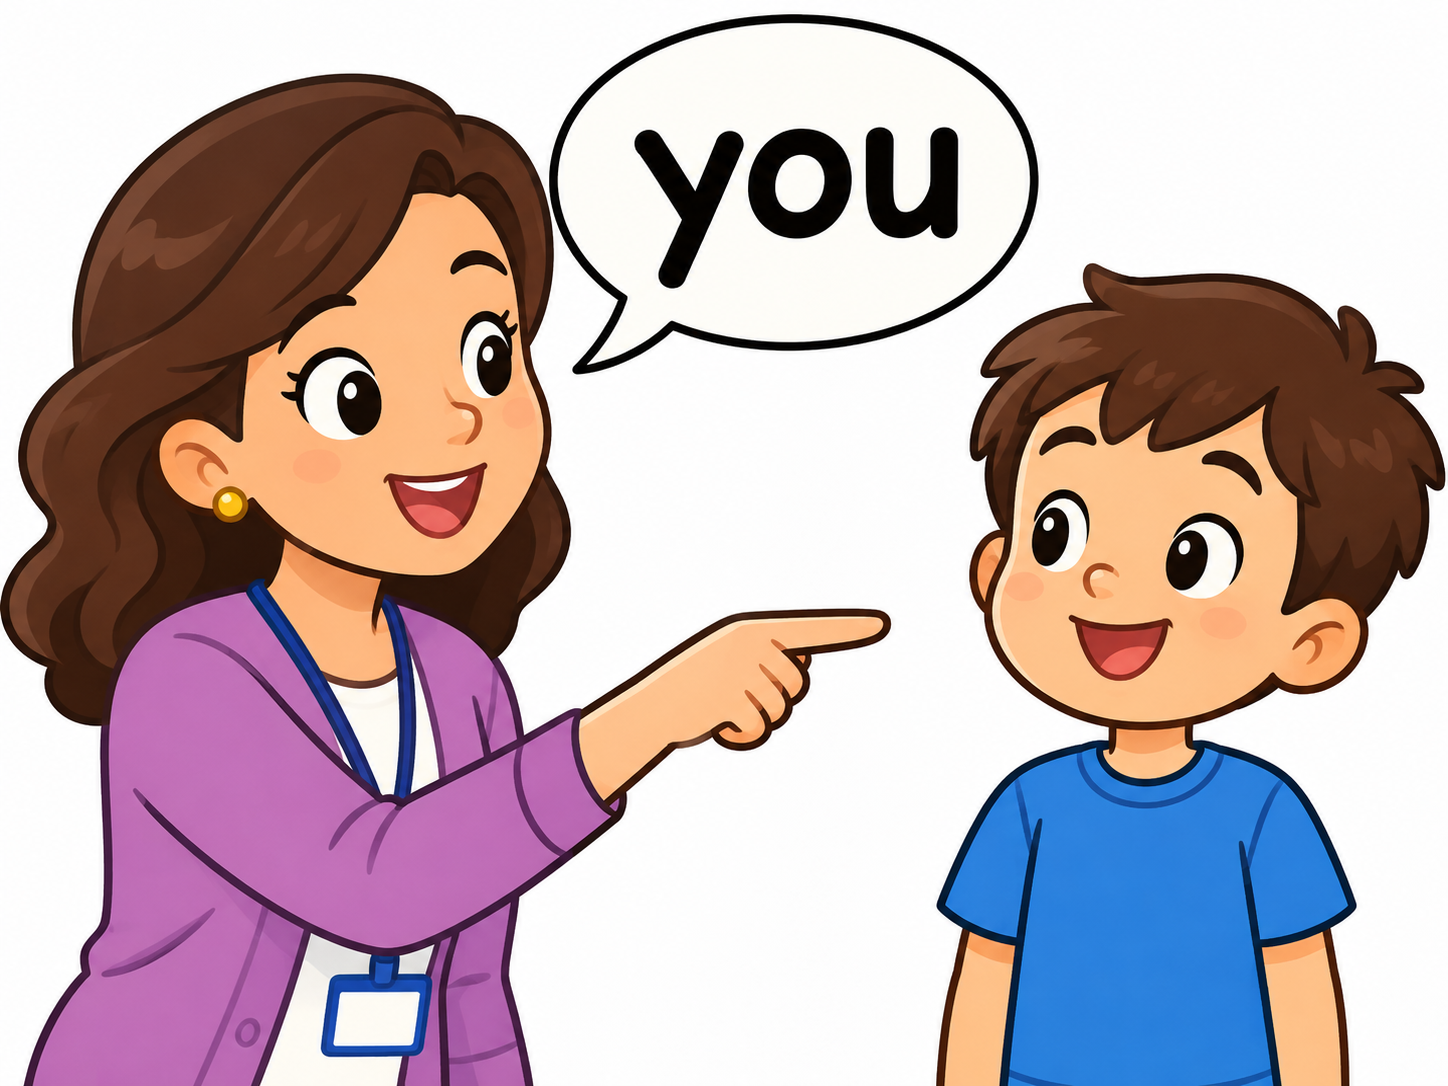
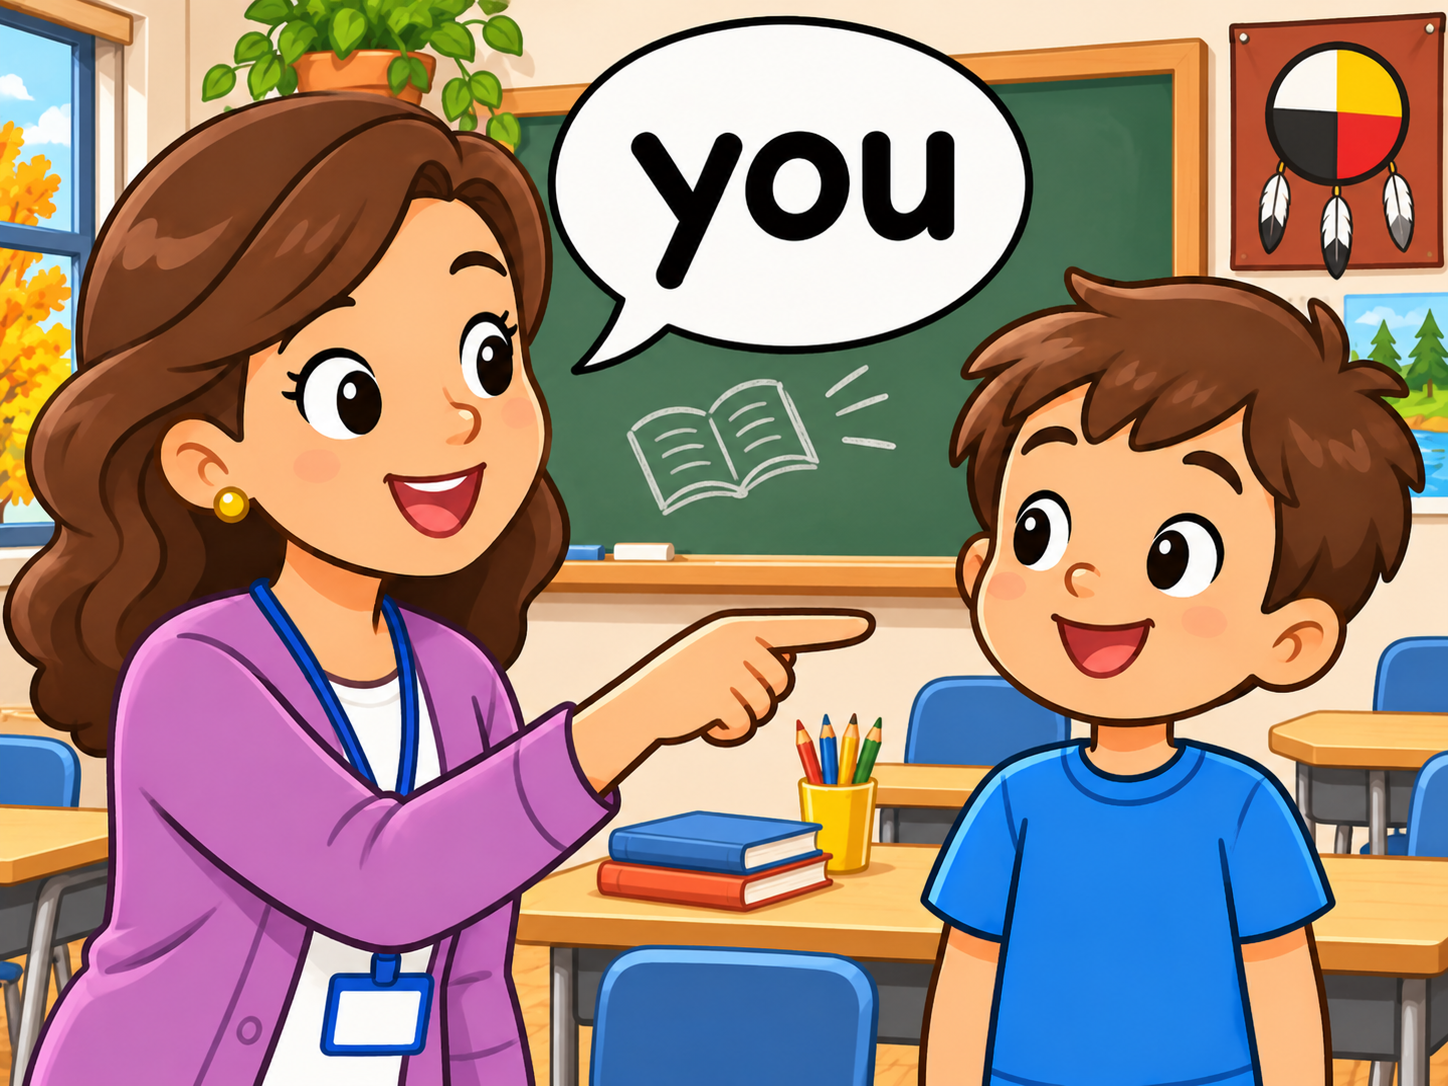
Added new Pictionary questions and images

diff --git a/src/pages/Game1.jsx b/src/pages/Game1.jsx
@@ -9,6 +9,8 @@ import questionImage1 from "../assets/questionImage1.png";
 import questionImage2 from "../assets/questionImage2.png";
 import questionImage3 from "../assets/questionImage3.png";
 import questionImage4 from "../assets/questionImage4.png";
+import questionImage5 from "../assets/questionImage5.png";
+import questionImage6 from "../assets/questionImage6.png";
 
 function Game1() {
   const navigate = useNavigate();
@@ -37,6 +39,20 @@ function Game1() {
       image: questionImage4,
       answers: ["eat", "I", "you"],
       correctAnswer: "I",
+    },
+
+        {
+      text: "____ Ice-cream .",
+      image: questionImage5,
+      answers: ["I like the taste of", "I", "and"],
+      correctAnswer: "I like the taste of",
+    },
+
+        {
+      text: "Ji'm ____ Sarah are friends  .",
+      image: questionImage6,
+      answers: ["and", "I", "you"],
+      correctAnswer: "and",
     },
   ];
 
